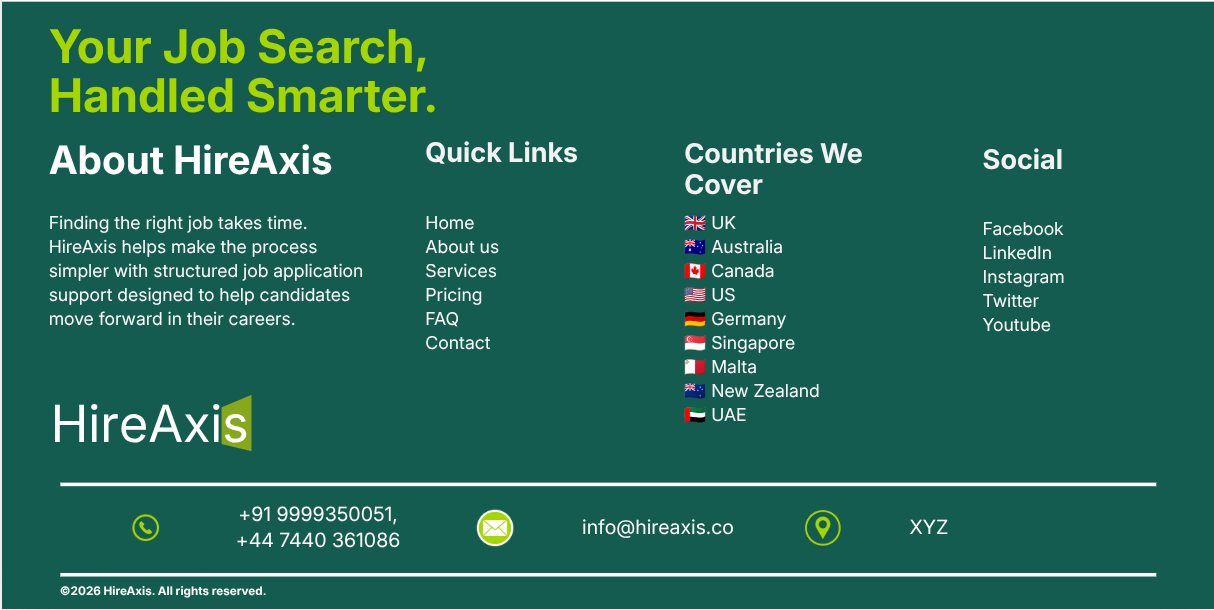
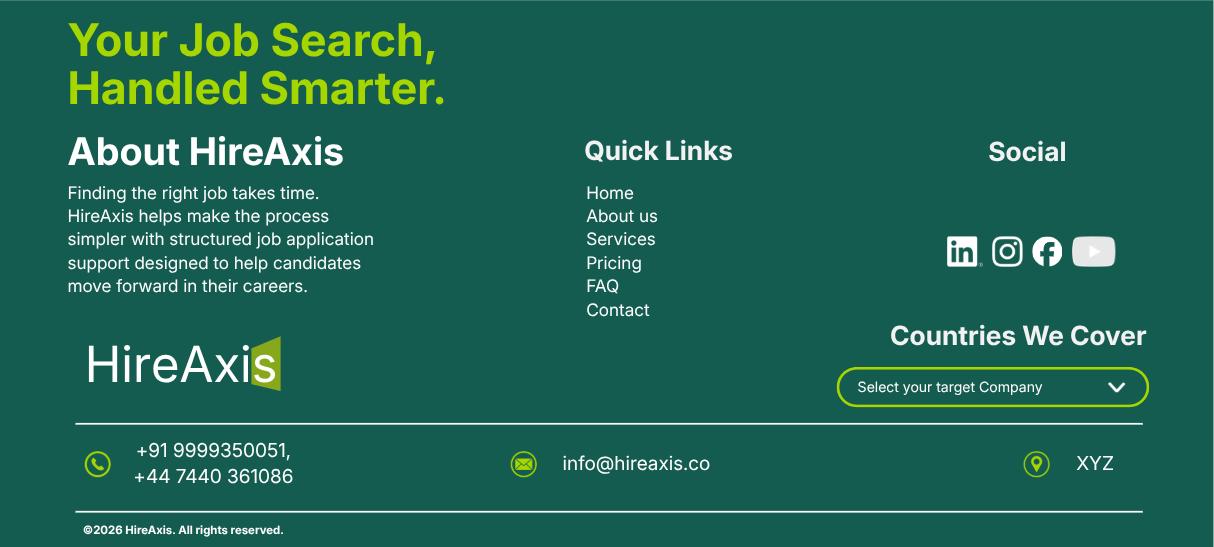
feat(footer): update footer to match latest 3-column layout with social row and company dropdown

diff --git a/src/components/Footer.jsx b/src/components/Footer.jsx
@@ -11,7 +11,7 @@ export default function Footer() {
           Handled Smarter.
         </div>
 
-        {/* 4 Columns Main Grid */}
+        {/* 3 Columns Main Grid */}
         <div className="footer-main-grid">
           {/* Column 1: About HireAxis */}
           <div className="footer-col footer-col-about">
@@ -25,7 +25,7 @@ export default function Footer() {
           </div>
 
           {/* Column 2: Quick Links */}
-          <div className="footer-col">
+          <div className="footer-col footer-col-links">
             <h3 className="footer-col-title">Quick Links</h3>
             <ul className="footer-link-list">
               <li><Link to="/">Home</Link></li>
@@ -37,32 +37,67 @@ export default function Footer() {
             </ul>
           </div>
 
-          {/* Column 3: Countries We Cover */}
-          <div className="footer-col">
-            <h3 className="footer-col-title">Countries We<br />Cover</h3>
-            <ul className="footer-country-list">
-              <li><span className="country-flag">🇬🇧</span> UK</li>
-              <li><span className="country-flag">🇦🇺</span> Australia</li>
-              <li><span className="country-flag">🇨🇦</span> Canada</li>
-              <li><span className="country-flag">🇺🇸</span> US</li>
-              <li><span className="country-flag">🇩🇪</span> Germany</li>
-              <li><span className="country-flag">🇸🇬</span> Singapore</li>
-              <li><span className="country-flag">🇲🇹</span> Malta</li>
-              <li><span className="country-flag">🇳🇿</span> New Zealand</li>
-              <li><span className="country-flag">🇦🇪</span> UAE</li>
-            </ul>
-          </div>
+          {/* Column 3: Social & Countries We Cover */}
+          <div className="footer-col footer-col-social-countries">
+            {/* Social Section */}
+            <div className="footer-social-section">
+              <h3 className="footer-col-title">Social</h3>
+              <div className="footer-social-row">
+                <a href="https://linkedin.com" target="_blank" rel="noopener noreferrer" className="footer-social-btn" aria-label="LinkedIn">
+                  <svg width="28" height="28" viewBox="0 0 24 24" fill="currentColor">
+                    <path d="M19 3a2 2 0 0 1 2 2v14a2 2 0 0 1-2 2H5a2 2 0 0 1-2-2V5a2 2 0 0 1 2-2h14m-.5 15.5v-5.3a3.26 3.26 0 0 0-3.26-3.26c-.85 0-1.84.52-2.28 1.3v-1.11h-2.79v8.37h2.79v-4.93c0-.77.62-1.4 1.39-1.4a1.4 1.4 0 0 1 1.4 1.4v4.93h2.75M6.88 8.56a1.68 1.68 0 0 0 1.68-1.68c0-.93-.75-1.69-1.68-1.69a1.69 1.69 0 0 0-1.69 1.69c0 .93.76 1.68 1.69 1.68m1.39 9.94v-8.37H5.5v8.37h2.77z"/>
+                  </svg>
+                </a>
+                <a href="https://instagram.com" target="_blank" rel="noopener noreferrer" className="footer-social-btn" aria-label="Instagram">
+                  <svg width="28" height="28" viewBox="0 0 24 24" fill="currentColor">
+                    <path d="M12 2.163c3.204 0 3.584.012 4.85.07 3.252.148 4.771 1.691 4.919 4.919.058 1.265.069 1.645.069 4.849 0 3.205-.012 3.584-.069 4.849-.149 3.225-1.664 4.771-4.919 4.919-1.266.058-1.644.07-4.85.07-3.204 0-3.584-.012-4.849-.07-3.26-.149-4.771-1.699-4.919-4.92-.058-1.265-.07-1.644-.07-4.849 0-3.204.013-3.583.07-4.849.149-3.227 1.664-4.771 4.919-4.919 1.266-.057 1.645-.069 4.849-.069zm0-2.163c-3.259 0-3.667.014-4.947.072-4.358.2-6.78 2.618-6.98 6.98-.059 1.281-.073 1.689-.073 4.948 0 3.259.014 3.668.072 4.948.2 4.358 2.618 6.78 6.98 6.98 1.281.058 1.689.072 4.948.072 3.259 0 3.668-.014 4.948-.072 4.354-.2 6.782-2.618 6.979-6.98.059-1.28.073-1.689.073-4.948 0-3.259-.014-3.667-.072-4.947-.196-4.354-2.617-6.78-6.979-6.98-1.281-.059-1.69-.073-4.949-.073zm0 5.838c-3.403 0-6.162 2.759-6.162 6.162s2.759 6.163 6.162 6.163 6.162-2.759 6.162-6.163c0-3.403-2.759-6.162-6.162-6.162zm0 10.162c-2.209 0-4-1.79-4-4 0-2.209 1.791-4 4-4s4 1.791 4 4c0 2.21-1.791 4-4 4zm6.406-11.845c-.796 0-1.441.645-1.441 1.44s.645 1.44 1.441 1.44c.795 0 1.439-.645 1.439-1.44s-.644-1.44-1.439-1.44z"/>
+                  </svg>
+                </a>
+                <a href="https://facebook.com" target="_blank" rel="noopener noreferrer" className="footer-social-btn" aria-label="Facebook">
+                  <svg width="28" height="28" viewBox="0 0 24 24" fill="currentColor">
+                    <path d="M12 2.04c-5.5 0-10 4.49-10 10.02 0 5 3.66 9.15 8.44 9.9v-7H7.9v-2.9h2.54V9.85c0-2.51 1.49-3.89 3.78-3.89 1.09 0 2.23.19 2.23.19v2.47h-1.26c-1.24 0-1.63.77-1.63 1.56v1.88h2.78l-.45 2.9h-2.33v7a10 10 0 0 0 8.44-9.9c0-5.53-4.5-10.02-10-10.02z"/>
+                  </svg>
+                </a>
+                <a href="https://youtube.com" target="_blank" rel="noopener noreferrer" className="footer-social-btn" aria-label="YouTube">
+                  <svg width="30" height="28" viewBox="0 0 24 24" fill="currentColor">
+                    <path d="M23.498 6.186a3.016 3.016 0 0 0-2.122-2.136C19.505 3.545 12 3.545 12 3.545s-7.505 0-9.377.505A3.017 3.017 0 0 0 .502 6.186C0 8.07 0 12 0 12s0 3.93.502 5.814a3.016 3.016 0 0 0 2.122 2.136c1.871.505 9.376.505 9.376.505s7.505 0 9.377-.505a3.015 3.015 0 0 0 2.122-2.136C24 15.93 24 12 24 12s0-3.93-.502-5.814zM9.545 15.568V8.432L15.818 12l-6.273 3.568z"/>
+                  </svg>
+                </a>
+              </div>
+            </div>
 
-          {/* Column 4: Social */}
-          <div className="footer-col">
-            <h3 className="footer-col-title">Social</h3>
-            <ul className="footer-link-list">
-              <li><a href="https://facebook.com" target="_blank" rel="noopener noreferrer">Facebook</a></li>
-              <li><a href="https://linkedin.com" target="_blank" rel="noopener noreferrer">LinkedIn</a></li>
-              <li><a href="https://instagram.com" target="_blank" rel="noopener noreferrer">Instagram</a></li>
-              <li><a href="https://twitter.com" target="_blank" rel="noopener noreferrer">Twitter</a></li>
-              <li><a href="https://youtube.com" target="_blank" rel="noopener noreferrer">Youtube</a></li>
-            </ul>
+            {/* Countries We Cover Section */}
+            <div className="footer-countries-section">
+              <h3 className="footer-col-title">Countries We Cover</h3>
+              <div className="footer-select-pill-container">
+                <select 
+                  className="footer-select-pill"
+                  defaultValue=""
+                  onChange={(e) => {
+                    if (e.target.value) {
+                      window.location.href = '/services';
+                    }
+                  }}
+                  aria-label="Select target Country"
+                >
+                  <option value="" disabled>Select your target Company</option>
+                  <option value="uk">🇬🇧 UK (United Kingdom)</option>
+                  <option value="australia">🇦🇺 Australia</option>
+                  <option value="canada">🇨🇦 Canada</option>
+                  <option value="us">🇺🇸 US (United States)</option>
+                  <option value="germany">🇩🇪 Germany</option>
+                  <option value="singapore">🇸🇬 Singapore</option>
+                  <option value="malta">🇲🇹 Malta</option>
+                  <option value="new-zealand">🇳🇿 New Zealand</option>
+                  <option value="uae">🇦🇪 UAE (United Arab Emirates)</option>
+                </select>
+                <div className="footer-select-chevron-icon">
+                  <svg width="20" height="20" viewBox="0 0 24 24" fill="none" stroke="currentColor" strokeWidth="2.8" strokeLinecap="round" strokeLinejoin="round">
+                    <path d="M6 9l6 6 6-6"/>
+                  </svg>
+                </div>
+              </div>
+            </div>
           </div>
         </div>
 

diff --git a/src/styles/index.css b/src/styles/index.css
@@ -298,42 +298,42 @@ img {
 .site-footer {
   background-color: var(--color-primary-dark);
   color: var(--color-white);
-  padding-top: 72px;
-  padding-bottom: 32px;
+  padding-top: 56px;
+  padding-bottom: 24px;
   margin-top: auto;
 }
 
 .footer-headline {
   color: var(--color-accent-lime);
-  font-size: 88px;
+  font-size: 58px;
   font-weight: 900;
-  line-height: 1.0;
-  letter-spacing: -0.03em;
-  margin-bottom: 52px;
+  line-height: 1.1;
+  letter-spacing: -0.025em;
+  margin-bottom: 38px;
 }
 
 .footer-main-grid {
   display: grid;
-  grid-template-columns: 1.4fr 1.1fr 1.15fr 0.85fr;
-  gap: 36px;
-  padding-bottom: 44px;
+  grid-template-columns: 1.4fr 0.95fr 1.25fr;
+  gap: 52px;
+  padding-bottom: 36px;
 }
 
 .footer-col-title {
   color: var(--color-white);
-  font-size: 42px;
-  font-weight: 900;
-  margin-bottom: 26px;
-  line-height: 1.12;
-  letter-spacing: -0.02em;
+  font-size: 34px;
+  font-weight: 800;
+  margin-bottom: 20px;
+  line-height: 1.15;
+  letter-spacing: -0.015em;
 }
 
 .footer-about-text {
-  color: rgba(255, 255, 255, 0.92);
-  font-size: 19px;
-  line-height: 1.62;
-  max-width: 400px;
-  margin-bottom: 36px;
+  color: rgba(255, 255, 255, 0.9);
+  font-size: 16.5px;
+  line-height: 1.58;
+  max-width: 350px;
+  margin-bottom: 30px;
 }
 
 .footer-logo-link {
@@ -341,29 +341,25 @@ img {
 }
 
 .footer-brand-logo {
-  height: 60px;
+  height: 48px;
   width: auto;
   display: block;
 }
 
-.footer-link-list,
-.footer-country-list {
+.footer-link-list {
   list-style: none;
   display: flex;
   flex-direction: column;
-  gap: 15px;
+  gap: 12px;
   padding: 0;
   margin: 0;
 }
 
-.footer-link-list a,
-.footer-country-list li {
-  color: rgba(255, 255, 255, 0.95);
-  font-size: 20px;
-  font-weight: 600;
-  display: flex;
-  align-items: center;
-  gap: 14px;
+.footer-link-list a {
+  color: rgba(255, 255, 255, 0.92);
+  font-size: 17px;
+  font-weight: 500;
+  display: inline-block;
   transition: var(--transition);
 }
 
@@ -372,36 +368,111 @@ img {
   transform: translateX(4px);
 }
 
-.country-flag {
-  font-size: 25px;
-  line-height: 1;
+/* Right Column: Social & Countries Dropdown */
+.footer-social-section {
+  margin-bottom: 32px;
+}
+
+.footer-social-row {
+  display: flex;
+  align-items: center;
+  gap: 18px;
+}
+
+.footer-social-btn {
+  color: var(--color-white);
+  display: inline-flex;
+  align-items: center;
+  justify-content: center;
+  transition: transform 0.2s, opacity 0.2s;
+}
+
+.footer-social-btn:hover {
+  color: var(--color-accent-lime);
+  transform: translateY(-2px);
+}
+
+.footer-social-btn svg {
+  width: 32px;
+  height: 32px;
+  display: block;
+}
+
+.footer-countries-section {
+  margin-top: 8px;
+}
+
+.footer-select-pill-container {
+  position: relative;
+  display: inline-block;
+  width: 100%;
+  max-width: 350px;
+}
+
+.footer-select-pill {
+  width: 100%;
+  appearance: none;
+  -webkit-appearance: none;
+  -moz-appearance: none;
+  border: 2px solid var(--color-accent-lime);
+  border-radius: 999px;
+  background-color: transparent;
+  color: var(--color-white);
+  font-size: 15px;
+  font-weight: 600;
+  padding: 13px 44px 13px 22px;
+  cursor: pointer;
+  outline: none;
+  transition: var(--transition);
+}
+
+.footer-select-pill:focus {
+  box-shadow: 0 0 0 3px rgba(132, 172, 42, 0.35);
+}
+
+.footer-select-pill option {
+  background-color: var(--color-primary-dark);
+  color: var(--color-white);
+  padding: 10px;
+}
+
+.footer-select-chevron-icon {
+  position: absolute;
+  right: 18px;
+  top: 50%;
+  transform: translateY(-50%);
+  pointer-events: none;
+  color: var(--color-white);
+  display: flex;
+  align-items: center;
+  justify-content: center;
 }
 
 /* Contact Divider Bar */
 .footer-contact-divider-wrap {
-  border-top: 2px solid rgba(255, 255, 255, 0.85);
-  border-bottom: 2px solid rgba(255, 255, 255, 0.85);
-  padding: 28px 0;
-  margin-top: 16px;
-  margin-bottom: 28px;
+  border-top: 1.5px solid rgba(255, 255, 255, 0.7);
+  border-bottom: 1.5px solid rgba(255, 255, 255, 0.7);
+  padding: 22px 0;
+  margin-top: 10px;
+  margin-bottom: 22px;
 }
 
 .footer-contact-bar {
   display: grid;
-  grid-template-columns: 1.45fr 1.45fr 1fr;
-  gap: 36px;
+  grid-template-columns: 1.35fr 1.35fr 1fr;
+  gap: 32px;
   align-items: center;
 }
 
 .footer-contact-box {
   display: flex;
   align-items: center;
-  gap: 20px;
+  gap: 16px;
 }
 
 .footer-icon-badge {
-  width: 58px;
-  height: 58px;
+  width: 46px;
+  height: 46px;
   border-radius: 50%;
   display: flex;
   align-items: center;
@@ -410,12 +481,12 @@ img {
 }
 
 .footer-icon-badge svg {
-  width: 26px;
-  height: 26px;
+  width: 22px;
+  height: 22px;
 }
 
 .footer-icon-badge-outline {
-  border: 2.5px solid var(--color-accent-lime);
+  border: 2px solid var(--color-accent-lime);
   color: var(--color-accent-lime);
   background: transparent;
 }
@@ -426,10 +497,10 @@ img {
 }
 
 .footer-contact-text {
-  font-size: 22px;
-  font-weight: 700;
+  font-size: 16.5px;
+  font-weight: 600;
   color: var(--color-white);
-  line-height: 1.45;
+  line-height: 1.42;
 }
 
 .footer-contact-text a {
@@ -443,7 +514,7 @@ img {
 
 /* Copyright Line */
 .footer-bottom-copyright {
-  font-size: 18px;
+  font-size: 14px;
   font-weight: 800;
   color: var(--color-white);
   letter-spacing: -0.01em;
